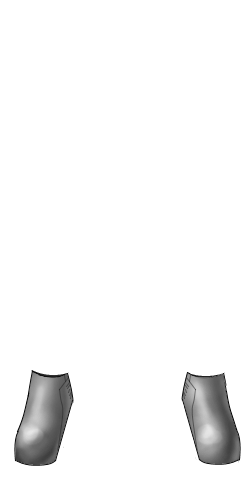
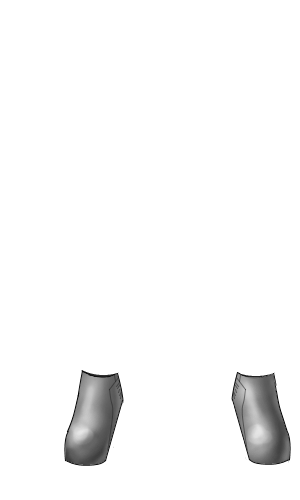
Support Spread Pose

Changed region(s): [[0.056, 0.72, 0.42, 0.93], [0.728, 0.72, 0.98, 0.93]]

diff --git a/BondageClub/Assets/Female3DCG/Female3DCG.js b/BondageClub/Assets/Female3DCG/Female3DCG.js
@@ -4218,30 +4218,32 @@ var AssetFemale3DCG = [
 		Zone: [[100, 870, 300, 130]],
 		Activity: ["Bite", "Kiss", "PoliteKiss", "Lick", "Suck", "Nibble", "Tickle", "Spank", "MassageHands", "MassageFeet", "TakeCare", "SpankItem", "TickleItem", "RubItem", "RollItem", "PourItem", "ShockItem", "Wiggle"],
 		Asset: [
-			{ Name: "PonyBoots", Fetish: ["Leather", "Pony"], Value: -1, Difficulty: 6, Time: 10, RemoveTime: 15, AllowLock: true, Alpha: [{ Group: ["BodyLower", "Socks", "SuitLower"], Masks: [[75, 875, 350, 200]] }], Height: 35 },
-			{ Name: "BalletHeels", Fetish: ["Leather"], Value: 75, Difficulty: 6, Time: 10, RemoveTime: 15, AllowLock: true, Alpha: [{ Group: ["BodyLower", "Socks", "SuitLower"], Masks: [[75, 825, 350, 200]] }], Height: 35 },
-			{ Name: "BalletWedges", Fetish: ["Leather"], Value: 50, Difficulty: 6, Time: 10, RemoveTime: 15, AllowLock: true, Alpha: [{ Group: ["BodyLower", "Socks", "SuitLower"], Masks: [[75, 825, 350, 200]] }], Height: 35 },
-			{ Name: "ToeCuffs", Fetish: ["Metal"], Value: 35, Difficulty: 4, Time: 10, RemoveTime: 5, AllowLock: true, Prerequisite: "ToeTied", Audio: "LockSmall", SetPose: ["LegsClosed"], Effect: ["Freeze", "Prone"], AllowActivePose: ["Kneel"], FreezeActivePose: ["BodyLower"] },
-			{ Name: "LeatherToeCuffs", Fetish: ["Leather"], Value: 50, Difficulty: 3, Time: 10, RemoveTime: 5, AllowLock: true, Prerequisite: "ToeTied", SetPose: ["LegsClosed"], Effect: ["Freeze", "Prone"], AllowActivePose: ["Kneel"], FreezeActivePose: ["BodyLower"] },
-			{ Name: "ToeTie", Fetish: ["Rope"], Value: 15, Difficulty: 2, Time: 10, RemoveTime: 5, DefaultColor: "#956B1C", Prerequisite: "ToeTied", Audio: "RopeShort", SetPose: ["LegsClosed"], Effect: ["Freeze", "Prone"], AllowActivePose: ["Kneel"], FreezeActivePose: ["BodyLower"] },
+			{ Name: "PonyBoots", Fetish: ["Leather", "Pony"], Value: -1, Difficulty: 6, Time: 10, RemoveTime: 15, AllowLock: true, Alpha: [{ Group: ["BodyLower", "Socks", "SuitLower"], Masks: [[75, 875, 350, 200]] }], Height: 35, HideForPose: ["Spread"] },
+			{ Name: "BalletHeels", Fetish: ["Leather"], Value: 75, Difficulty: 6, Time: 10, RemoveTime: 15, AllowLock: true, Alpha: [{ Group: ["BodyLower", "Socks", "SuitLower"], Masks: [[75, 825, 350, 200]] }], Height: 35, HideForPose: ["Spread"] },
+			{ Name: "BalletWedges", Fetish: ["Leather"], Value: 50, Difficulty: 6, Time: 10, RemoveTime: 15, AllowLock: true, Alpha: [{ Group: ["BodyLower", "Socks", "SuitLower"], Masks: [[75, 825, 350, 200]] }], Height: 35, HideForPose: ["Spread"] },
+			{ Name: "ToeCuffs", Fetish: ["Metal"], Value: 35, Difficulty: 4, Time: 10, RemoveTime: 5, AllowLock: true, Prerequisite: "ToeTied", Audio: "LockSmall", SetPose: ["LegsClosed"], Effect: ["Freeze", "Prone"], AllowActivePose: ["Kneel"], FreezeActivePose: ["BodyLower"], HideForPose: ["Spread"] },
+			{ Name: "LeatherToeCuffs", Fetish: ["Leather"], Value: 50, Difficulty: 3, Time: 10, RemoveTime: 5, AllowLock: true, Prerequisite: "ToeTied", SetPose: ["LegsClosed"], Effect: ["Freeze", "Prone"], AllowActivePose: ["Kneel"], FreezeActivePose: ["BodyLower"], HideForPose: ["Spread"] },
+			{ Name: "ToeTie", Fetish: ["Rope"], Value: 15, Difficulty: 2, Time: 10, RemoveTime: 5, DefaultColor: "#956B1C", Prerequisite: "ToeTied", Audio: "RopeShort", SetPose: ["LegsClosed"], Effect: ["Freeze", "Prone"], AllowActivePose: ["Kneel"], FreezeActivePose: ["BodyLower"], HideForPose: ["Spread"] },
 			{ Name: "ThighHighLatexHeels", Fetish: ["Latex"], Value: -1, Time: 10, RemoveTime: 15, AllowLock: true, BuyGroup: "ThighHighLatexHeels",
 				Alpha: [
 					{ Group: ["BodyLower", "Socks", "SuitLower"], Masks: [[75, 680, 350, 320]] },
 					{ Group: ["BodyLower", "Socks", "SuitLower"], Pose: ["LegsClosed"], Masks: [[75, 650, 350, 350]] },
-				], Height: 30
+				], Height: 30, HideForPose: ["Spread"]
 			},
-			{ Name: "LockingHeels", Value: 20, Difficulty: 6, Time: 10, RemoveTime: 15, AllowLock: true, Height: 15 },
-			{ Name: "LockingHeels2", Value: 25, Difficulty: 7, Time: 10, RemoveTime: 15, AllowLock: true, Height: 15 },
-			{ Name: "LockingShoes1", Value: 15, Difficulty: 3, Time: 5, RemoveTime: 8, AllowLock: true, Height: 6 },
-			{ Name: "LockingShoes2", Value: 20, Difficulty: 4, Time: 5, RemoveTime: 8, AllowLock: true, Height: 6 },
+			{ Name: "LockingHeels", Value: 20, Difficulty: 6, Time: 10, RemoveTime: 15, AllowLock: true, Height: 15, HideForPose: ["Spread"] },
+			{ Name: "LockingHeels2", Value: 25, Difficulty: 7, Time: 10, RemoveTime: 15, AllowLock: true, Height: 15, HideForPose: ["Spread"] },
+			{ Name: "LockingShoes1", Value: 15, Difficulty: 3, Time: 5, RemoveTime: 8, AllowLock: true, Height: 6, HideForPose: ["Spread"] },
+			{ Name: "LockingShoes2", Value: 20, Difficulty: 4, Time: 5, RemoveTime: 8, AllowLock: true, Height: 6, HideForPose: ["Spread"] },
 			{ Name: "FuturisticHeels", Category: ["SciFi"], Value: 50, Difficulty: 7, Time: 10, RemoveTime: 20, DefaultColor: ["#50913C", "Default"], Random: false, AllowLock: true, DrawLocks: false, Height: 6, AllowType: ["Heel"], Extended: true, AlwaysExtend: true, Audio: "FuturisticApply", BuyGroup: "FuturisticHeels",
 				Layer: [
 					{ Name: "Display", HasType: false },
 					{ Name: "Shoes", AllowTypes:["", "Heel"] },
 					{ Name: "Lock", LockLayer: true,AllowColorize: true, HasType: false, ParentGroup: null},
-				]
+				], HideForPose: ["Spread"]
 			},
-			{ Name: "FuturisticHeels2", Value: 50, Difficulty: 7, Time: 10, RemoveTime: 20, DefaultColor: ["#50913C", "Default"], Random: false, AllowLock: true, DrawLocks: false, Audio: "FuturisticApply", BuyGroup: "FuturisticHeels", Extended: true, AllowType:["Matte"],
+			{ Name: "FuturisticHeels2", Value: 50, Difficulty: 7, Time: 10, RemoveTime: 20,
+			Left: 75, DefaultColor: ["#50913C", "Default"], Random: false, AllowLock: true, DrawLocks: false, Audio: "FuturisticApply", BuyGroup: "FuturisticHeels", Extended: true, AllowType:["Matte"],
+			AllowPose: ["LegsClosed", "Kneel", "Hogtied", "Spread"],
 				Layer: [
 					{ Name: "Mesh", ParentGroup: null, HasType: false },
 					{ Name: "Display", ParentGroup: null, HasType: false },
@@ -4256,21 +4258,21 @@ var AssetFemale3DCG = [
 				], Height: 30
 			},
 			{
-				Name: "LockingBoots1", Value: 30, Difficulty: 6, Time: 7, RemoveTime: 14, AllowLock: true, Height: 9,
+				Name: "LockingBoots1", Value: 30, Difficulty: 6, Time: 7, RemoveTime: 14, AllowLock: true, Height: 9, HideForPose: ["Spread"],
 				Layer: [
 					{ Name: "Boots" },
 					{ Name: "Straps" }
 				]
 			},
 			{
-				Name: "LeatherFootMitts1", Fetish: ["Leather"], Value: 35, Difficulty: 4, Time: 6, RemoveTime: 7, AllowLock: true, Hide: ["Shoes", "Socks"],
+				Name: "LeatherFootMitts1", Fetish: ["Leather"], Value: 35, Difficulty: 4, Time: 6, RemoveTime: 7, AllowLock: true, Hide: ["Shoes", "Socks"], HideForPose: ["Spread"],
 				Layer: [
 					{ Name: "Mitts" },
 					{ Name: "Straps" }
 				]
 			},
-			{ Name: "ToeTape", Fetish: ["Tape"], Extended: true, Value: 50, BuyGroup: "DuctTape", Audio: "DuctTape", Difficulty: 2, Time: 10, RemoveTime: 5, Prerequisite: "ToeTied", SetPose: ["LegsClosed"], AllowType: ["Full"], AllowActivePose: ["Kneel"] },
-			{ Name: "Zipties", Value: 20, Difficulty: 6, Time: 5, RemoveTime: 6, BuyGroup: "Zipties", Audio: "ZipTie", Prerequisite: "ToeTied", SetPose: ["LegsClosed"], Effect: ["Freeze", "Prone"], AllowActivePose: ["Kneel"] },
+			{ Name: "ToeTape", Fetish: ["Tape"], Extended: true, Value: 50, BuyGroup: "DuctTape", Audio: "DuctTape", Difficulty: 2, Time: 10, RemoveTime: 5, Prerequisite: "ToeTied", SetPose: ["LegsClosed"], AllowType: ["Full"], AllowActivePose: ["Kneel"], HideForPose: ["Spread"] },
+			{ Name: "Zipties", Value: 20, Difficulty: 6, Time: 5, RemoveTime: 6, BuyGroup: "Zipties", Audio: "ZipTie", Prerequisite: "ToeTied", SetPose: ["LegsClosed"], Effect: ["Freeze", "Prone"], AllowActivePose: ["Kneel"], HideForPose: ["Spread"] },
 			AssetSpankingToys
 		],
 		Color: ["Default"]
@@ -4362,7 +4364,6 @@ var PoseFemale3DCG = [
 	{
 		Name: "Spread",
 		Category: "BodyLower",
-		Hide: ["ItemBoots"],
 		MovePosition: [{ Group: "Pussy", X: 0, Y: -5 }, { Group: "ItemVulva", X: 0, Y: -5 }, { Group: "ItemButt", X: 0, Y: -5 }, { Group: "TailStraps", X: 0, Y: -5 }, { Group: "ItemVulvaPiercings", X: 0, Y: -5 }]
 	},
 	{
